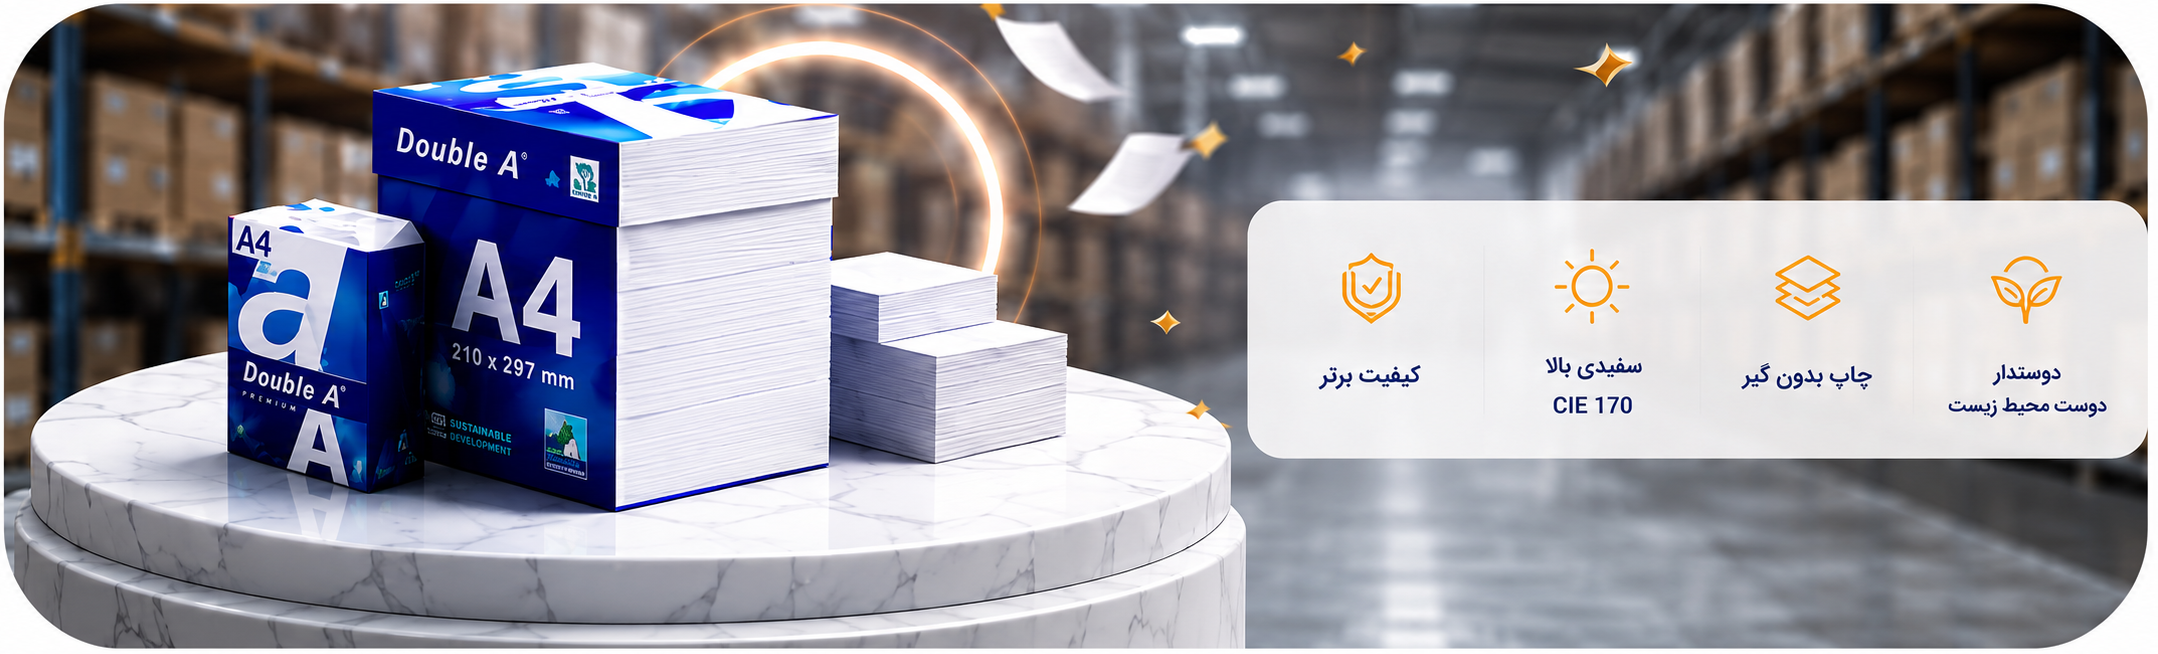
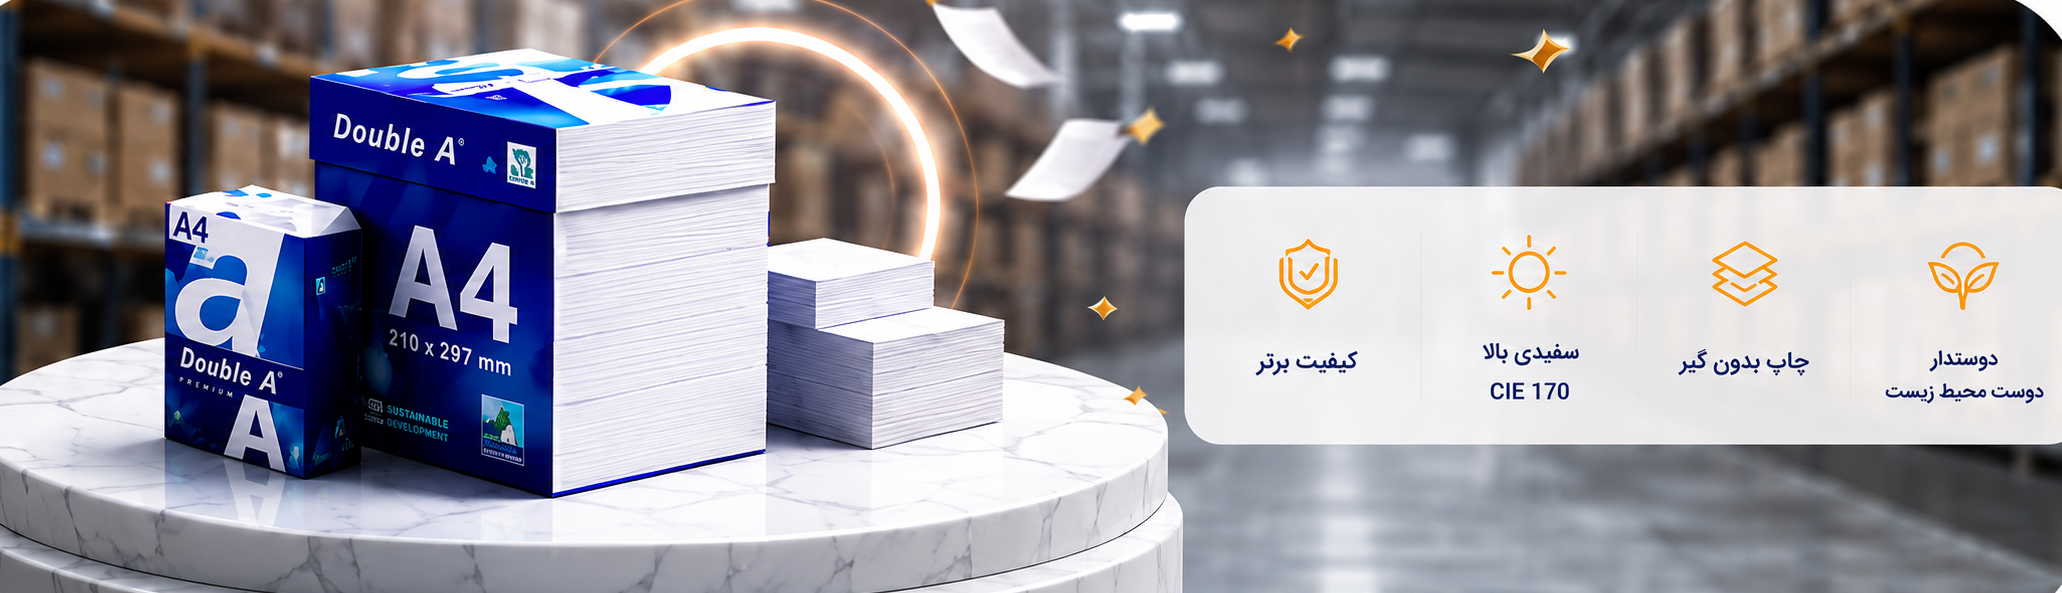
Second Commit

diff --git a/components/ui/CategoryCard.tsx b/components/ui/CategoryCard.tsx
@@ -9,7 +9,7 @@ type CategoryCardProps = {
 export function CategoryCard({ category }: CategoryCardProps) {
   if (category.dark) {
     return (
-      <a className="flex h-[66px] min-w-[142px] snap-start items-center justify-center gap-3 rounded-lg bg-navy px-4 text-white shadow-card transition hover:bg-deepNavy" href="#">
+      <a className="flex h-[92px] min-w-0 items-center justify-center gap-2 rounded-lg bg-navy px-3 text-white shadow-card transition hover:bg-deepNavy sm:h-[76px]" href="#">
         <GridIcon className="size-7 text-buttonGold" />
         <span className="max-w-[72px] text-sm font-bold leading-5">{category.title}</span>
       </a>
@@ -18,27 +18,27 @@ export function CategoryCard({ category }: CategoryCardProps) {
 
   if (category.featured) {
     return (
-      <a className="flex h-[66px] min-w-[260px] snap-start items-center gap-4 rounded-lg border border-[#F0DDAE] bg-white px-4 shadow-card transition hover:-translate-y-0.5" href="#">
-        <BuildingIcon className="size-9 shrink-0 text-buttonGold" />
+      <a className="flex h-[92px] min-w-0 items-center gap-2 rounded-lg border border-[#F0DDAE] bg-white px-3 shadow-card transition hover:-translate-y-0.5 sm:h-[76px]" href="#">
+        <BuildingIcon className="size-7 shrink-0 text-buttonGold sm:size-8" />
         <div className="min-w-0">
-          <p className="text-sm font-black text-buttonGold">{category.title}</p>
-          <p className="mt-1 text-xs font-semibold text-textNavy">{category.subtitle}</p>
-          <p className="mt-1 text-[11px] font-bold text-royal">{category.cta} ←</p>
+          <p className="text-[11px] font-black leading-4 text-buttonGold sm:text-sm">{category.title}</p>
+          <p className="mt-0.5 line-clamp-2 text-[9px] font-semibold leading-4 text-textNavy sm:text-xs">{category.subtitle}</p>
+          <p className="mt-0.5 text-[9px] font-bold text-royal sm:text-[11px]">{category.cta} ←</p>
         </div>
       </a>
     );
   }
 
   return (
-    <a className="flex h-[66px] min-w-[174px] snap-start items-center justify-between gap-3 rounded-lg bg-white px-5 shadow-card transition hover:-translate-y-0.5" href="#">
+    <a className="flex h-[92px] min-w-0 items-center justify-between gap-2 rounded-lg bg-white px-3 shadow-card transition hover:-translate-y-0.5 sm:h-[76px] sm:px-4" href="#">
       <div>
-        <p className="text-lg font-black text-navy">{category.title}</p>
-        <p className="mt-1 text-xs font-bold text-muted">{category.subtitle}</p>
+        <p className="text-base font-black text-navy sm:text-lg">{category.title}</p>
+        <p className="mt-1 text-[10px] font-bold text-muted sm:text-xs">{category.subtitle}</p>
       </div>
       {category.image ? (
         <Image
           alt={category.title}
-          className="h-12 w-14 object-contain"
+          className="h-14 w-12 object-contain sm:w-14"
           height={54}
           sizes="56px"
           src={category.image}

diff --git a/app/contact/page.tsx b/app/contact/page.tsx
@@ -2,9 +2,10 @@ import Image from "next/image";
 import { Header } from "@/components/layout/Header";
 import { Footer } from "@/components/layout/Footer";
 import { PageIcon } from "@/components/pages/PageIcon";
+import { StandardHero } from "@/components/ui/StandardHero";
 
 export default function ContactPage(){return <><Header/><main className="site-page contact-page">
-  <section className="image-hero contact-hero"><Image src="/images/pages/contact-hero.png" alt="تماس با ما" fill priority sizes="100vw"/></section>
+  <section><StandardHero src="/images/pages/contact-hero.png" alt="تماس با ما" imageClassName="object-[58%_center] lg:object-center" /></section>
   <div className="contact-columns">
     <section className="contact-info panel"><div className="contact-details">{[["ساعات کاری","شنبه تا پنجشنبه، ۸ تا ۱۸","clock"],["آدرس دفتر مرکزی","تهران، خیابان ولیعصر، نبش شهید بهشتی","pin"],["ایمیل","info@kaghaz20.com","mail"],["تماس تلفنی","۰۲۱-۹۱۰۰-۷۰۷۰","phone"]].map(x=><div key={x[0]}><PageIcon name={x[2]}/><span><b>{x[0]}</b><small>{x[1]}</small></span></div>)}</div><div className="map"><Image src="/images/pages/contact-map.png" alt="موقعیت دفتر کاغذ ۲۰" fill sizes="70vw"/></div><h3>دفتر مرکزی Double A ایران</h3><p>تهران، خیابان ولیعصر، بالاتر از میدان مهران، نبش خیابان شهید بهشتی، پلاک ۲۰۰</p></section>
     <section className="contact-form panel"><h1>برای ما پیام بگذارید</h1><p>فرم زیر را تکمیل کنید تا در اسرع وقت با شما تماس بگیریم.</p><form><div className="field-row"><input placeholder="نام و نام خانوادگی"/><input type="email" placeholder="ایمیل"/></div><div className="field-row"><input placeholder="شماره موبایل"/><select defaultValue=""><option value="" disabled>موضوع</option><option>مشاوره خرید</option><option>پشتیبانی</option></select></div><textarea placeholder="پیام شما"/><button>ارسال پیام　⌁</button></form><small>معمولاً در کمتر از ۲ ساعت پاسخ میدهیم.</small></section>

diff --git a/app/about/page.tsx b/app/about/page.tsx
@@ -3,6 +3,7 @@ import Link from "next/link";
 import { Header } from "@/components/layout/Header";
 import { PageIcon } from "@/components/pages/PageIcon";
 import { Footer } from "@/components/layout/Footer";
+import { StandardHero } from "@/components/ui/StandardHero";
 
 const values = [
   ["اعتماد و تعهد", "ساختن روابط بلندمدت و شفافیت در تمامی تعاملات و پشتیبانی برتر", "people"],
@@ -14,7 +15,7 @@ const history = [["۱۹۹۱","تأسیس شرکت"],["۱۹۹۶","گسترش تو
 
 export default function AboutPage() {
   return <><Header /><main className="site-page about-page">
-    <section className="image-hero"><Image src="/images/pages/about-hero.png" alt="محصولات دابل ای" fill priority sizes="100vw" /></section>
+    <section><StandardHero src="/images/pages/about-hero.png" alt="درباره کاغذ ۲۰ و محصولات Double A" imageClassName="object-[52%_center] lg:object-center" /></section>
     <section className="about-story panel">
       <div className="story-image"><Image src="/images/pages/about-building.png" alt="ساختمان دابل ای" fill sizes="(max-width: 800px) 100vw, 35vw"/><span><b>بیش از ۳۰ سال</b> تجربه در تولید کاغذ با کیفیت</span></div>
       <div className="story-copy"><p className="eyebrow">درباره ما</p><h1>از یک رویا تا برندی جهانی</h1><p>در سال ۱۹۹۱ در تایلند تأسیس شد با هدف تولید کاغذ با کیفیت بالا که نیازهای حرفهای کاربران را برآورده کند. امروز ما نه تنها محصولاتی با کیفیت را در بیش از ۱۰۰ کشور عرضه میکنیم، بلکه میلیونها کاربر به کیفیت و عملکرد ما اعتماد دارند.</p><p>ما در کاغذ Double A باور داریم که کیفیت، پایداری و نوآوری سه اصل اساسی در هر کسبوکار موفق هستند.</p>

diff --git a/components/layout/MobileBottomNav.tsx b/components/layout/MobileBottomNav.tsx
@@ -2,7 +2,7 @@
 
 import Link from "next/link";
 import { usePathname } from "next/navigation";
-import { CartIcon, GridIcon } from "@/components/ui/Icons";
+import { CartIcon, GridIcon, UserIcon } from "@/components/ui/Icons";
 
 function HomeIcon({ className = "" }: { className?: string }) {
   return (
@@ -14,8 +14,9 @@ function HomeIcon({ className = "" }: { className?: string }) {
 
 const items = [
   { label: "خانه", href: "/", icon: HomeIcon, match: ["/"] },
-  { label: "سبد خرید", href: "/cart", icon: CartIcon, match: ["/cart"] },
   { label: "فروشگاه", href: "/shop", icon: GridIcon, match: ["/shop", "/store", "/products"] },
+  { label: "سبد خرید", href: "/cart", icon: CartIcon, match: ["/cart"] },
+  { label: "حساب کاربری", href: "/login", icon: UserIcon, match: ["/login", "/register"] },
 ];
 
 export function MobileBottomNav() {
@@ -23,13 +24,13 @@ export function MobileBottomNav() {
 
   return (
     <nav className="fixed inset-x-0 bottom-0 z-50 border-t border-borderBlue bg-white/95 px-3 pb-[calc(env(safe-area-inset-bottom)+8px)] pt-2 shadow-[0_-8px_24px_rgba(0,27,85,0.08)] backdrop-blur lg:hidden" aria-label="ناوبری موبایل">
-      <div className="mx-auto grid max-w-sm grid-cols-3 gap-2">
+      <div className="mx-auto grid max-w-md grid-cols-4 gap-1 sm:gap-2">
         {items.map((item) => {
           const active = item.match.some((match) => (match === "/" ? pathname === "/" : pathname.startsWith(match)));
           const Icon = item.icon;
           return (
             <Link
-              className={`flex flex-col items-center justify-center gap-1 rounded-xl py-1.5 text-[11px] font-black transition ${
+              className={`flex min-w-0 flex-col items-center justify-center gap-1 rounded-xl py-1.5 text-[10px] font-black transition sm:text-[11px] ${
                 active ? "bg-softBlue text-buttonGold" : "text-navy"
               }`}
               href={item.href}

diff --git a/components/home/PromoBanners.tsx b/components/home/PromoBanners.tsx
@@ -2,14 +2,14 @@ import Image from "next/image";
 import { Container } from "@/components/ui/Container";
 
 const bannerClass =
-  "block h-auto w-full object-contain lg:absolute lg:inset-0 lg:h-full lg:object-cover";
+  "absolute inset-0 h-full w-full object-fill";
 
 export function PromoBanners() {
   return (
     <section className="pb-2" aria-label="پیشنهادها و ضمانت محصولات">
       <Container>
         <div className="grid gap-4 sm:gap-5 lg:grid-cols-2">
-          <div className="relative overflow-hidden rounded-[clamp(10px,1.8vw,28px)] shadow-premium lg:aspect-[4.25/1]">
+          <div className="relative h-[120px] overflow-hidden rounded-[clamp(10px,1.8vw,28px)] shadow-premium sm:h-[145px] lg:aspect-[4.25/1] lg:h-auto">
             <Image
               src="/images/banner-discount.png"
               alt="تخفیفهای ویژه برای خرید عمده"
@@ -19,7 +19,7 @@ export function PromoBanners() {
               className={bannerClass}
             />
           </div>
-          <div className="relative overflow-hidden rounded-[clamp(10px,1.8vw,28px)] shadow-premium lg:aspect-[4.25/1]">
+          <div className="relative h-[120px] overflow-hidden rounded-[clamp(10px,1.8vw,28px)] shadow-premium sm:h-[145px] lg:aspect-[4.25/1] lg:h-auto">
             <Image
               src="/images/banner-guarantee.png"
               alt="ضمانت صد درصد اصالت کالای کاغذ ۲۰"

diff --git a/components/home/HeroSection.tsx b/components/home/HeroSection.tsx
@@ -1,21 +1,11 @@
-import Image from "next/image";
 import { Container } from "@/components/ui/Container";
+import { StandardHero } from "@/components/ui/StandardHero";
 
 export function HeroSection() {
   return (
     <section className="pt-1" aria-label="کاغذ پریمیوم Double A">
       <Container>
-        <div className="relative overflow-hidden rounded-[clamp(12px,2.4vw,40px)] shadow-premium lg:aspect-[2/1]">
-          <Image
-            src="/images/home-hero-premium.png"
-            alt="کاغذ پریمیوم Double A در اندازههای A3، A4 و A5"
-            width={1672}
-            height={941}
-            priority
-            sizes="(max-width: 640px) calc(100vw - 24px), (max-width: 1536px) calc(100vw - 48px), 1440px"
-            className="block h-auto w-full object-contain lg:absolute lg:inset-0 lg:h-full lg:object-cover"
-          />
-        </div>
+        <StandardHero src="/images/home-hero-premium.png" alt="کاغذ پریمیوم Double A در اندازههای A3، A4 و A5" imageClassName="object-center" frameClassName="lg:h-[560px]" />
       </Container>
     </section>
   );

diff --git a/components/ui/StandardHero.tsx b/components/ui/StandardHero.tsx
@@ -1,0 +1,23 @@
+import Image from "next/image";
+
+type StandardHeroProps = {
+  src: string;
+  alt: string;
+  imageClassName?: string;
+  frameClassName?: string;
+};
+
+export function StandardHero({ src, alt, imageClassName = "object-center", frameClassName = "" }: StandardHeroProps) {
+  return (
+    <div className={`relative h-[220px] w-full overflow-hidden rounded-[clamp(12px,2vw,28px)] bg-softBlue shadow-premium sm:h-[300px] lg:h-[400px] ${frameClassName}`}>
+      <Image
+        src={src}
+        alt={alt}
+        fill
+        priority
+        sizes="(max-width: 640px) calc(100vw - 24px), (max-width: 1536px) calc(100vw - 48px), 1440px"
+        className={`object-fill ${imageClassName}`}
+      />
+    </div>
+  );
+}

diff --git a/components/shop/ShopHero.tsx b/components/shop/ShopHero.tsx
@@ -1,11 +1,11 @@
-import Image from "next/image";
 import { Container } from "@/components/ui/Container";
+import { StandardHero } from "@/components/ui/StandardHero";
 
 export function ShopHero() {
   return (
     <section className="pt-3">
       <Container>
-        <Image src="/images/pages/store-hero.png" alt="فروشگاه کاغذ ۲۰" width={2048} height={620} priority sizes="(max-width: 1536px) calc(100vw - 48px), 1382px" className="block h-auto w-full rounded-[clamp(12px,2vw,32px)] object-contain shadow-premium" />
+        <StandardHero src="/images/pages/store-hero.png" alt="فروشگاه کاغذ ۲۰" imageClassName="object-[48%_center] lg:object-center" />
       </Container>
     </section>
   );

diff --git a/data/categories.ts b/data/categories.ts
@@ -26,27 +26,4 @@ export const categories: Category[] = [
     subtitle: "297 x 420 mm",
     image: "/images/category-a3.png",
   },
-  {
-    id: "colored",
-    title: "کاغذ رنگی",
-    subtitle: "انواع رنگی",
-    image: "/images/category-colored-paper.png",
-  },
-  {
-    id: "glossy",
-    title: "کاغذ گلاسه",
-    subtitle: "چاپ حرفهای",
-    image: "/images/category-glossy-paper.png",
-  },
-  {
-    id: "writing",
-    title: "کاغذ تحریر",
-    subtitle: "کیفیت بالا",
-    image: "/images/category-writing-paper.png",
-  },
-  {
-    id: "all",
-    title: "مشاهده دستهبندیها",
-    dark: true,
-  },
 ];

diff --git a/components/shop/QualityGuaranteeBanner.tsx b/components/shop/QualityGuaranteeBanner.tsx
@@ -1,5 +1,9 @@
 import Image from "next/image";
 
 export function QualityGuaranteeBanner() {
-  return <Image src="/images/pages/store-original-banner.png" alt="ضمانت اصالت کالا" width={2048} height={414} sizes="(max-width: 1023px) calc(100vw - 48px), 900px" className="mt-5 block h-auto w-full rounded-xl object-contain shadow-card" />;
+  return (
+    <div className="relative mt-5 h-[125px] overflow-hidden rounded-xl shadow-card sm:h-[155px] lg:h-[180px]">
+      <Image src="/images/pages/store-original-banner.png" alt="ضمانت اصالت کالا" fill sizes="(max-width: 1023px) calc(100vw - 48px), 900px" className="object-fill" />
+    </div>
+  );
 }

diff --git a/components/blog/BlogHero.tsx b/components/blog/BlogHero.tsx
@@ -1,13 +1,11 @@
-import Image from "next/image";
 import { Container } from "@/components/ui/Container";
+import { StandardHero } from "@/components/ui/StandardHero";
 
 export function BlogHero() {
   return (
     <section className="pt-3">
       <Container>
-        <div className="relative h-[190px] overflow-hidden rounded-xl shadow-premium sm:h-[240px]">
-          <Image alt="مجله کاغذ ۲۰" className="object-cover" fill priority sizes="100vw" src="/images/pages/blog-hero.png" />
-        </div>
+        <StandardHero src="/images/pages/blog-hero.png" alt="مجله کاغذ ۲۰" />
       </Container>
     </section>
   );

diff --git a/components/home/CategoryStrip.tsx b/components/home/CategoryStrip.tsx
@@ -6,7 +6,7 @@ export function CategoryStrip() {
   return (
     <section className="py-5">
       <Container>
-        <div className="scrollbar-hide flex snap-x gap-4 overflow-x-auto pb-1">
+        <div className="grid grid-cols-2 gap-3 sm:gap-4 lg:grid-cols-4">
           {categories.map((category) => (
             <CategoryCard category={category} key={category.id} />
           ))}
